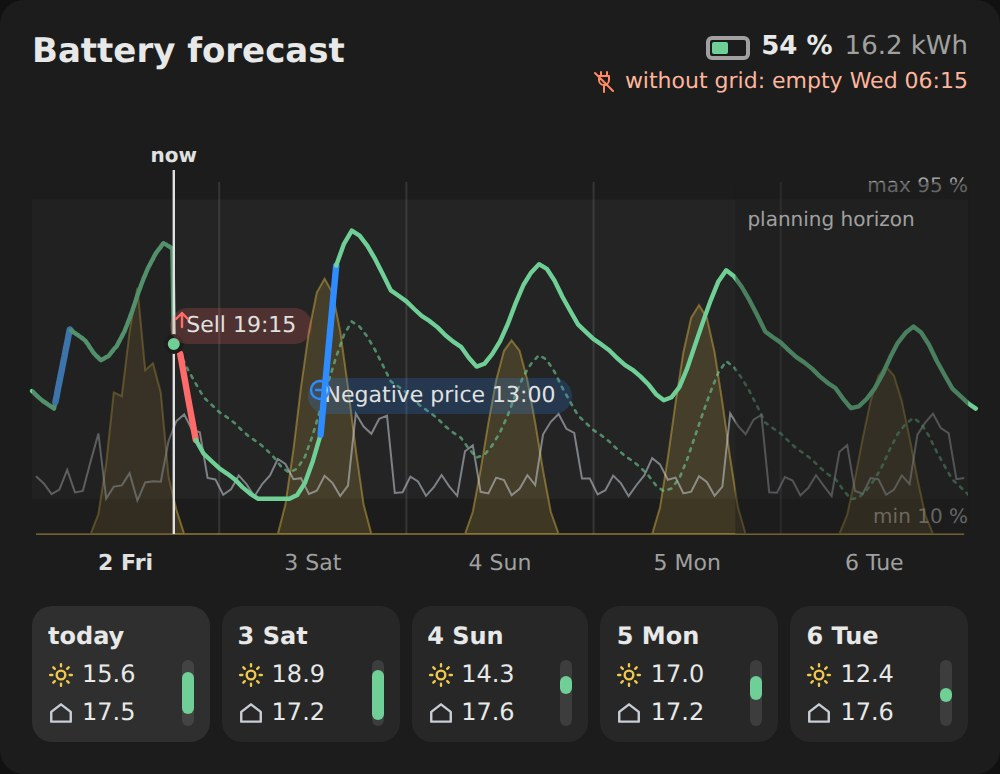
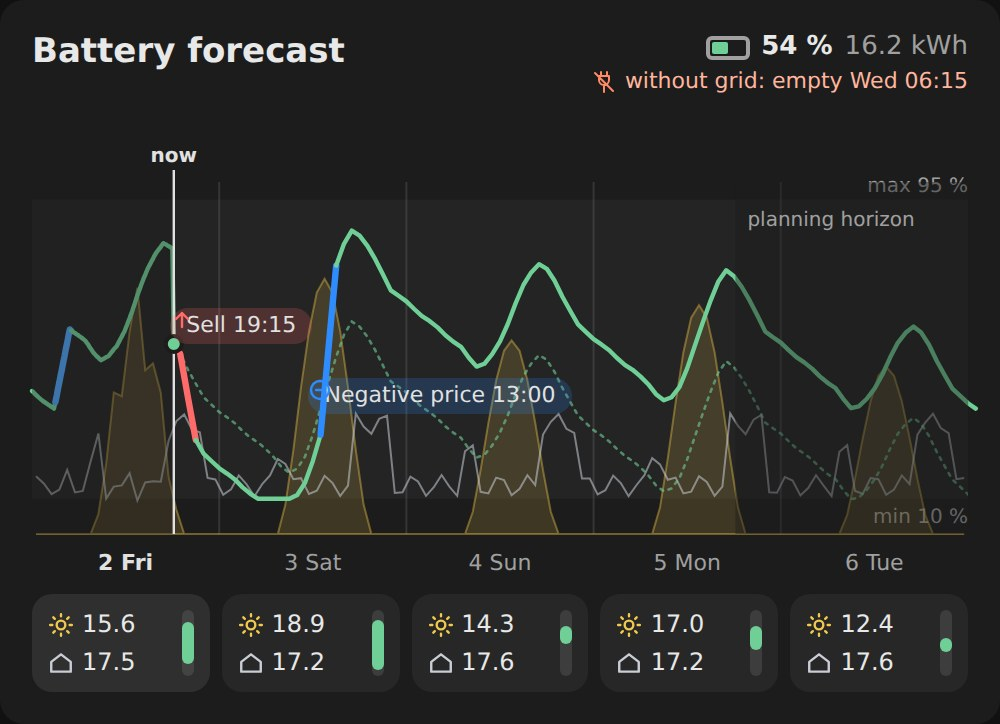
0.5.3: day tiles without the day name, right under the chart's day labels
Claude-Session: https://claude.ai/code/session_014r7iW87VUaLwA2BPBnvNAd

diff --git a/custom_components/ess_manager/frontend/ess-manager-cards.js b/custom_components/ess_manager/frontend/ess-manager-cards.js
@@ -765,9 +765,10 @@ class EssManagerBatteryCard extends EssChartCard {
         const socs = m.hist.concat(m.future).filter(([t]) => t >= s && t <= e).map(([, v]) => v);
         const lo = socs.length ? clamp(Math.min(...socs), 0, 100) : null;
         const hi = socs.length ? clamp(Math.max(...socs), 0, 100) : null;
-        const range = lo === null ? "" : `${f.num(lo, 0)}\u2013${f.num(hi, 0)} %`;
+        // no day name: the tiles sit right under the chart's day labels
+        const name = d === 0 ? this._t("today") : f.dayLabel(s + HOUR_MS * 12);
+        const range = lo === null ? name : `${name} \u00b7 ${f.num(lo, 0)}\u2013${f.num(hi, 0)} %`;
         return `<div class="day${d === 0 ? " today" : ""}" title="${esc(range)}">
-          <span class="dname">${esc(d === 0 ? this._t("today") : f.dayLabel(s + HOUR_MS * 12))}</span>
           <div class="drow">
             <div class="dvals">
               ${opt.show_solar !== false ? `<span class="dval">${icon("sun", opt.solar_color, 13, 2.2)}${sol === null ? "\u2013" : f.num(sol, 1)}</span>` : ""}
@@ -797,19 +798,18 @@ class EssManagerBatteryCard extends EssChartCard {
       .right { display: flex; flex-direction: column; align-items: flex-end; gap: 3px; }
       .socrow { display: flex; align-items: center; gap: 6px; font-size: 13px; white-space: nowrap; }
       .outlook { display: flex; align-items: center; gap: 4px; font-size: 11px; white-space: nowrap; }
-      .days { display: grid; gap: 6px; }
+      .days { display: grid; gap: 6px; margin-top: 8px; }
       .day { background: rgba(127,127,127,.12); border-radius: 10px; padding: 8px; display: flex; flex-direction: column; gap: 5px; min-width: 0; }
       .day.today { background: rgba(127,127,127,.2); }
       .drow { display: flex; align-items: stretch; gap: 6px; min-height: 30px; }
       .dvals { display: flex; flex-direction: column; justify-content: space-between; gap: 5px; flex-grow: 1; min-width: 0; }
-      .dname { font-size: 12px; font-weight: 600; white-space: nowrap; overflow: hidden; text-overflow: ellipsis; }
       .dval { display: flex; align-items: center; gap: 4px; font-size: 12px; white-space: nowrap; }
       .vbar { position: relative; width: 6px; flex-shrink: 0; border-radius: 999px; background: rgba(127,127,127,.25); }
       .vbar div { position: absolute; left: 0; right: 0; border-radius: 999px; }
       @container (max-width: 400px) {
         .day { padding: 6px; }
         .drow { gap: 3px; }
-        .dname, .dval { font-size: 11px; }
+        .dval { font-size: 11px; }
         .dval { gap: 3px; }
         .dval svg { width: 11px; height: 11px; }
         .vbar { width: 4px; }
@@ -827,8 +827,8 @@ class EssManagerBatteryCard extends EssChartCard {
           <div class="hit" style="position:absolute;left:0;top:${top}px;width:${W}px;height:${H}px"></div>
         </div>
         <div class="axisrow" style="width:${W}px;margin-top:4px">${labels}</div>
+        ${tiles}
       </div>
-      ${tiles}
     </ha-card>`;
     this._wireTooltip((px) => this._showTip(px));
   }

diff --git a/tools/cards_template.js b/tools/cards_template.js
@@ -765,9 +765,10 @@ class EssManagerBatteryCard extends EssChartCard {
         const socs = m.hist.concat(m.future).filter(([t]) => t >= s && t <= e).map(([, v]) => v);
         const lo = socs.length ? clamp(Math.min(...socs), 0, 100) : null;
         const hi = socs.length ? clamp(Math.max(...socs), 0, 100) : null;
-        const range = lo === null ? "" : `${f.num(lo, 0)}–${f.num(hi, 0)} %`;
+        // no day name: the tiles sit right under the chart's day labels
+        const name = d === 0 ? this._t("today") : f.dayLabel(s + HOUR_MS * 12);
+        const range = lo === null ? name : `${name} · ${f.num(lo, 0)}–${f.num(hi, 0)} %`;
         return `<div class="day${d === 0 ? " today" : ""}" title="${esc(range)}">
-          <span class="dname">${esc(d === 0 ? this._t("today") : f.dayLabel(s + HOUR_MS * 12))}</span>
           <div class="drow">
             <div class="dvals">
               ${opt.show_solar !== false ? `<span class="dval">${icon("sun", opt.solar_color, 13, 2.2)}${sol === null ? "–" : f.num(sol, 1)}</span>` : ""}
@@ -797,19 +798,18 @@ class EssManagerBatteryCard extends EssChartCard {
       .right { display: flex; flex-direction: column; align-items: flex-end; gap: 3px; }
       .socrow { display: flex; align-items: center; gap: 6px; font-size: 13px; white-space: nowrap; }
       .outlook { display: flex; align-items: center; gap: 4px; font-size: 11px; white-space: nowrap; }
-      .days { display: grid; gap: 6px; }
+      .days { display: grid; gap: 6px; margin-top: 8px; }
       .day { background: rgba(127,127,127,.12); border-radius: 10px; padding: 8px; display: flex; flex-direction: column; gap: 5px; min-width: 0; }
       .day.today { background: rgba(127,127,127,.2); }
       .drow { display: flex; align-items: stretch; gap: 6px; min-height: 30px; }
       .dvals { display: flex; flex-direction: column; justify-content: space-between; gap: 5px; flex-grow: 1; min-width: 0; }
-      .dname { font-size: 12px; font-weight: 600; white-space: nowrap; overflow: hidden; text-overflow: ellipsis; }
       .dval { display: flex; align-items: center; gap: 4px; font-size: 12px; white-space: nowrap; }
       .vbar { position: relative; width: 6px; flex-shrink: 0; border-radius: 999px; background: rgba(127,127,127,.25); }
       .vbar div { position: absolute; left: 0; right: 0; border-radius: 999px; }
       @container (max-width: 400px) {
         .day { padding: 6px; }
         .drow { gap: 3px; }
-        .dname, .dval { font-size: 11px; }
+        .dval { font-size: 11px; }
         .dval { gap: 3px; }
         .dval svg { width: 11px; height: 11px; }
         .vbar { width: 4px; }
@@ -827,8 +827,8 @@ class EssManagerBatteryCard extends EssChartCard {
           <div class="hit" style="position:absolute;left:0;top:${top}px;width:${W}px;height:${H}px"></div>
         </div>
         <div class="axisrow" style="width:${W}px;margin-top:4px">${labels}</div>
+        ${tiles}
       </div>
-      ${tiles}
     </ha-card>`;
     this._wireTooltip((px) => this._showTip(px));
   }

diff --git a/README.md b/README.md
@@ -592,10 +592,10 @@ the forecast without plans runs empty ("without grid: empty Wed 06:15",
 with an orange ring on the 0 % line) or full ("full Sat 13:30", a yellow
 ring on the 100 % line) - the nearest one, the same rule as the solar
 mode - or "5+ days" when neither happens within the forecast. Below the
-chart one tile per day: the solar and usage in kWh (today: measured +
-expected) and, as a slim vertical bar beside them, the lowest - highest
-battery level that day on a 0 - 100 % scale (hover a tile for the
-numbers). Tap the chart
+chart one tile per day, right under its day label (today's slightly
+lighter): the solar and usage in kWh (today: measured + expected) and, as
+a slim vertical bar beside them, the lowest - highest battery level that
+day on a 0 - 100 % scale (hover a tile for the numbers). Tap the chart
 (or hover with a mouse) for the values at that hour: battery level, without
 plans, solar, usage and the price; tap the same spot again to close.
 

diff --git a/CHANGELOG.md b/CHANGELOG.md
@@ -7,6 +7,13 @@ lets HACS reliably tell installed instances an update exists, since
 `vX.Y.Z`) automatically as the last step of every push (see the README) -
 a plain git tag on its own isn't enough for HACS to notice.
 
+## [0.5.3] - 2026-10-03
+
+### Changed
+- Battery forecast card: the day tiles no longer repeat the day name -
+  they sit right under the chart's day labels - so they're two lines high
+  now. Hovering a tile still shows the day and its battery level range.
+
 ## [0.5.2] - 2026-10-03
 
 ### Changed
